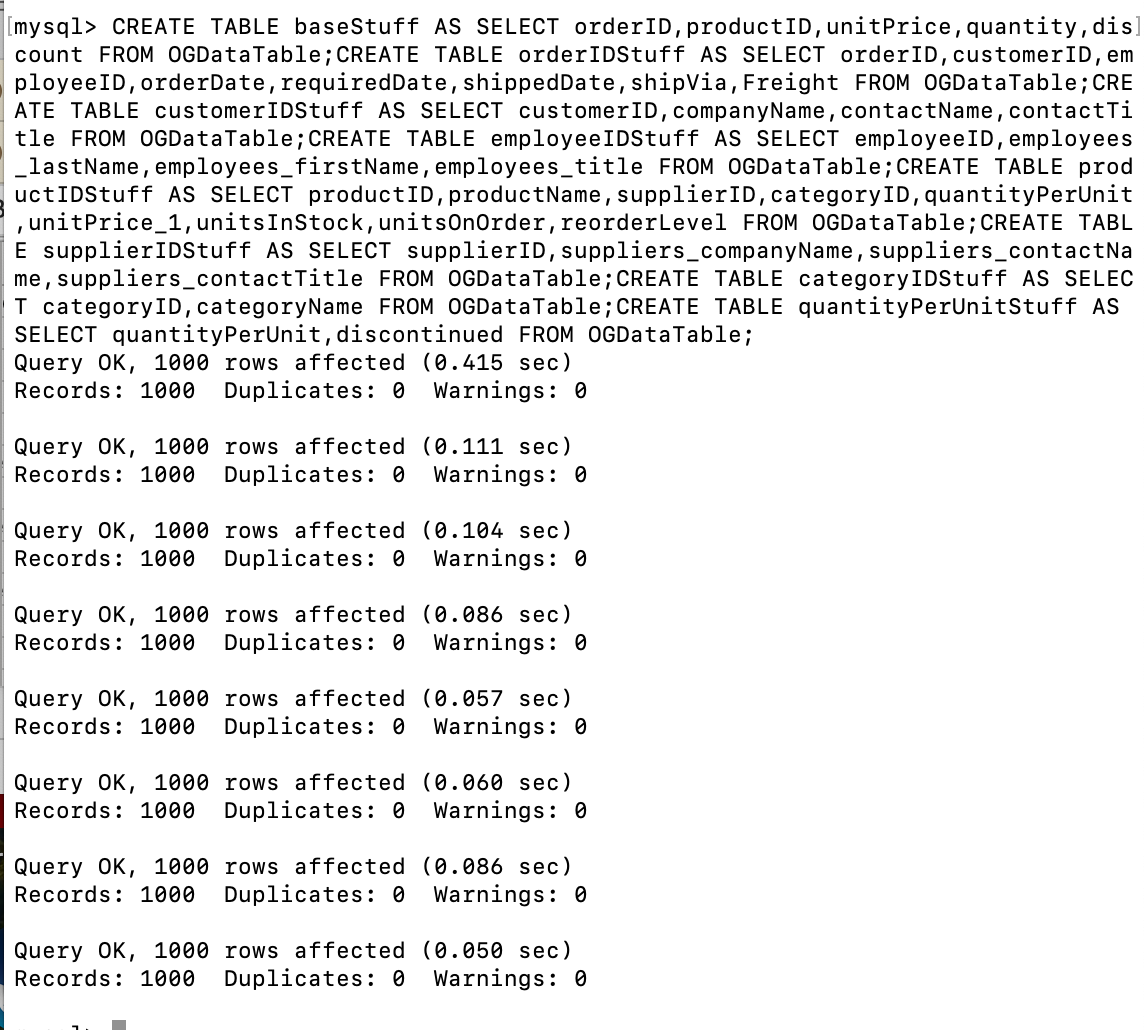
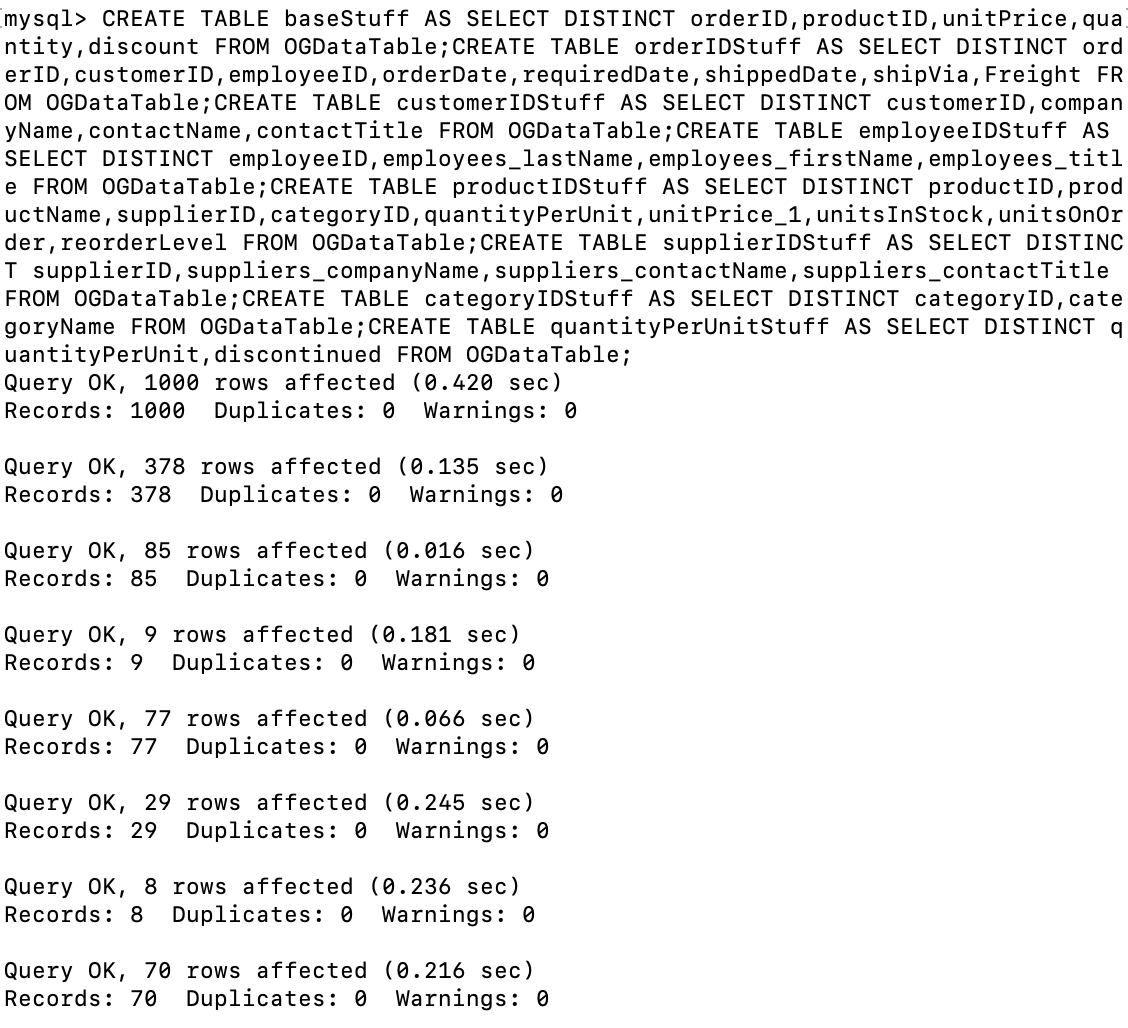
fix

Changed region(s): [[0.0, 0.0, 1.0, 1.0]]

diff --git a/sqlNormalizationChecker.py b/sqlNormalizationChecker.py
@@ -119,7 +119,8 @@ for i in tables[1:]:
 #print("_"*30)
 for c, i in enumerate(tables2):
     #print(i)
-    print(f"CREATE TABLE {i.split(',')[0] if c != 0 else 'base'}Stuff AS SELECT {i} FROM OGDataTable;", end="")
+    print(f"CREATE TABLE {i.split(',')[0] if c != 0 else 'base'}Stuff AS SELECT DISTINCT {i} FROM OGDataTable;", end="")
+    #print(f"DROP TABLE {i.split(',')[0] if c != 0 else 'base'}Stuff;", end="")
 for c, i in enumerate(tables2):
     sp = i.split(",")
     for j in sp:
@@ -127,8 +128,8 @@ for c, i in enumerate(tables2):
         for k in sp:
             if k in f[j]:
                 c += 1
-            if c != 0 and c != len(sp)-1:
-                print("uto", j,k,i,f[j],c)
+        if c != 0 and c != len(sp)-1:
+            print("uto", j,i,f[j],c)
 
 
 
